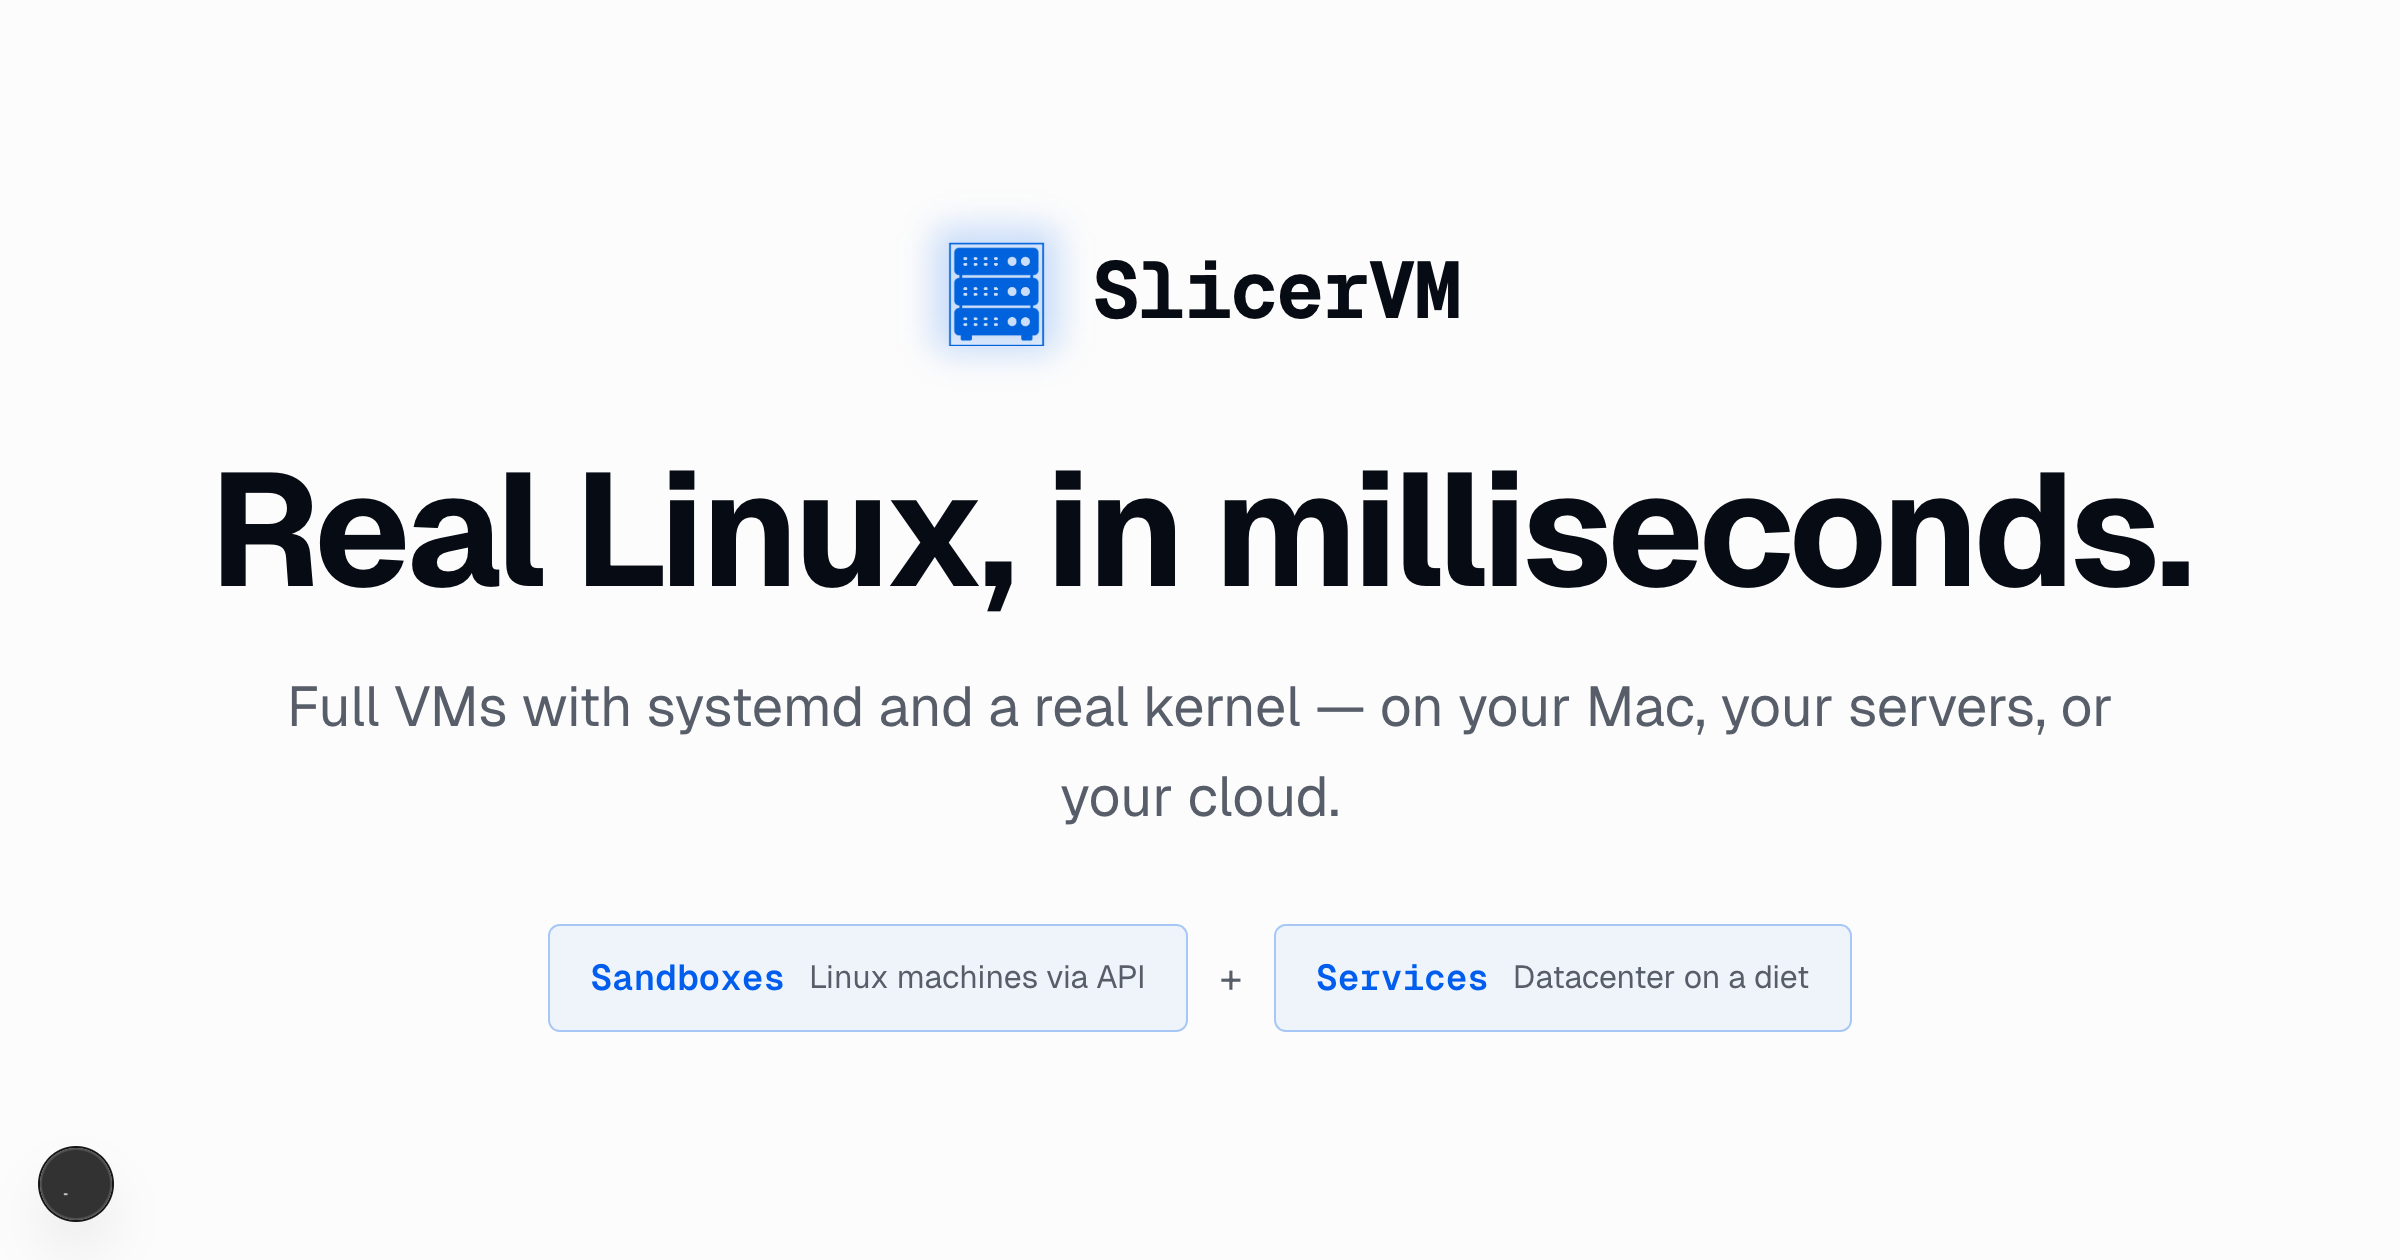
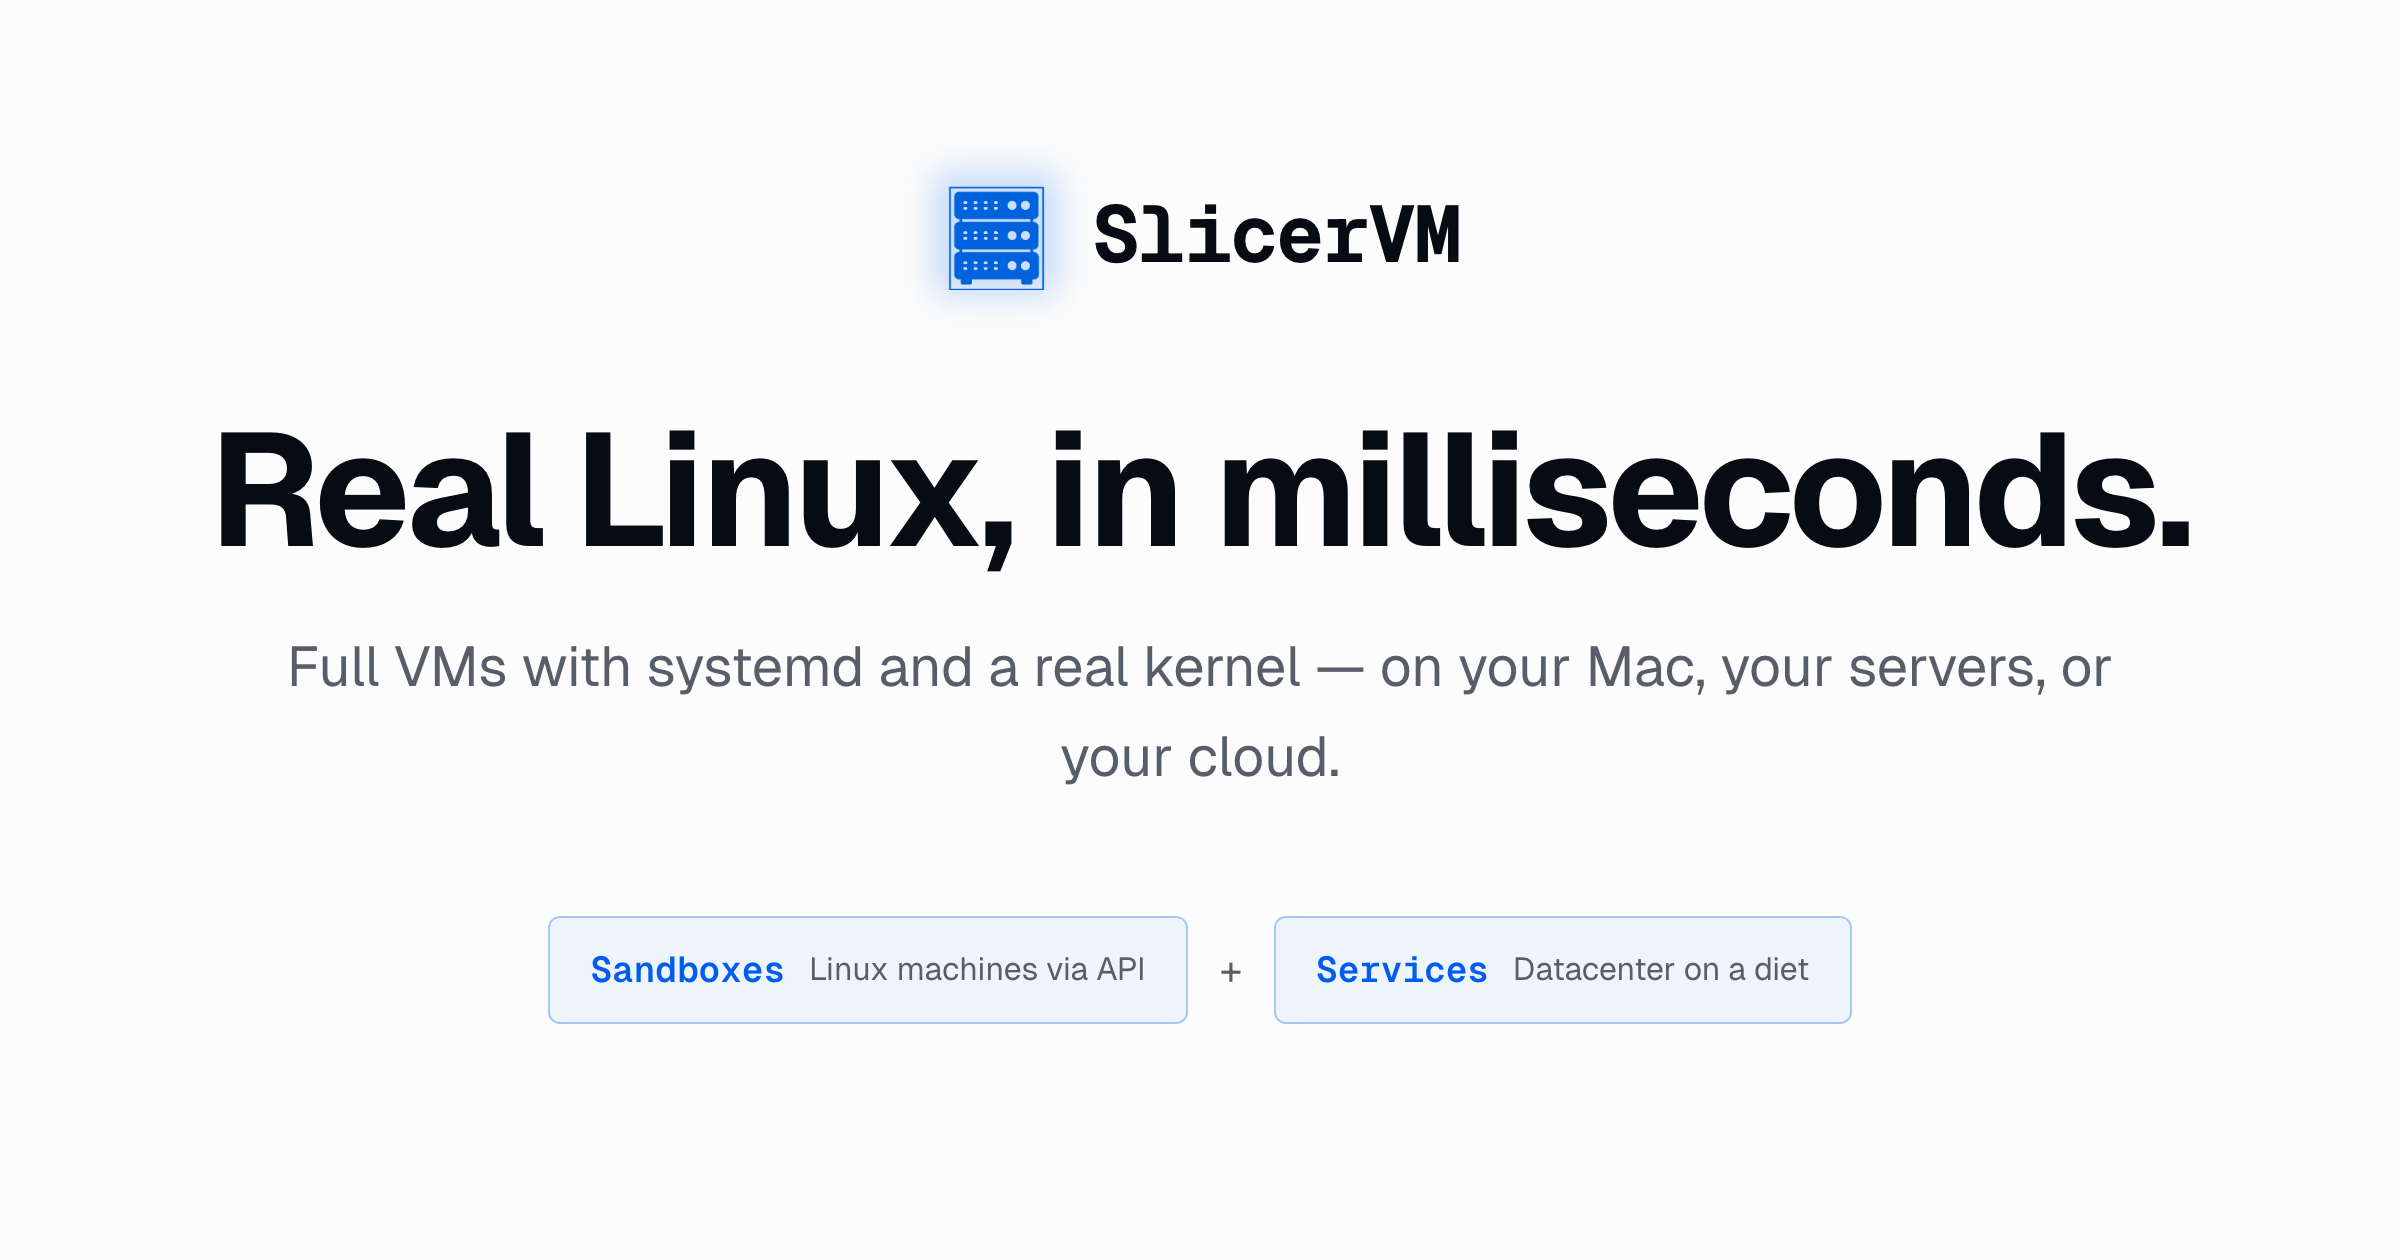
OG card changes

diff --git a/src/app/og-card/page.tsx b/src/app/og-card/page.tsx
@@ -17,9 +17,9 @@ export default function OgCardPage() {
       <div className="absolute inset-0 bg-[radial-gradient(ellipse_at_top,_var(--tw-gradient-stops))] from-primary/10 via-background to-background" />
       <div className="absolute inset-0 bg-grid-slate-900/[0.04] dark:bg-grid-slate-400/[0.05] bg-[size:32px_32px]" />
 
-      <div className="relative flex flex-col items-center justify-center h-full px-20 py-16">
+      <div className="relative flex flex-col items-center justify-center h-full px-20 pt-12 pb-20">
         {/* Logo + brand — matches navigation.tsx */}
-        <div className="flex items-center gap-5 mb-12">
+        <div className="flex items-center gap-5 mb-14">
           <div className="relative">
             <div className="absolute -inset-1 bg-primary/20 rounded-lg blur" />
             <Image
@@ -41,7 +41,7 @@ export default function OgCardPage() {
         </h1>
 
         {/* Subtext */}
-        <p className="text-[28px] text-muted-foreground text-center max-w-[920px] mb-10 leading-relaxed">
+        <p className="text-[28px] text-muted-foreground text-center max-w-[920px] mb-14 leading-relaxed">
           Full VMs with systemd and a real kernel — on your Mac, your servers, or your cloud.
         </p>
 
